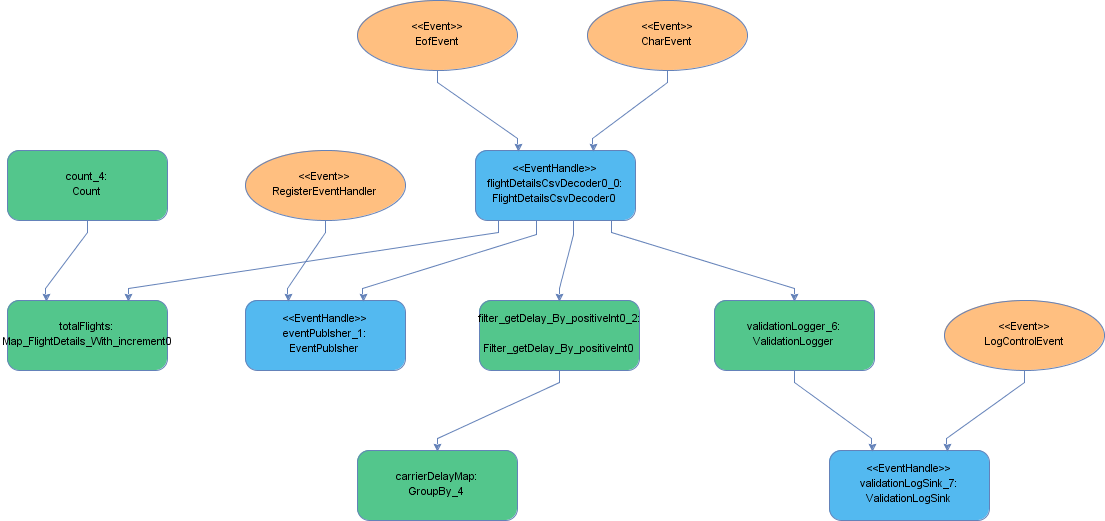
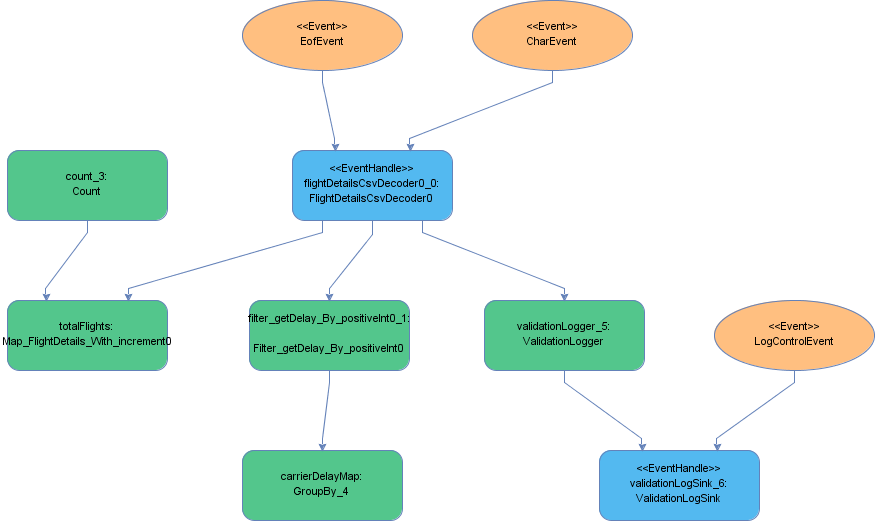
remove unnecessary event publisher. regenerated solution, updates to generator optimises solution

diff --git a/examples/futext-examples/src/main/java/com/fluxtion/ext/futext/example/flightdelay/AnalysisBuilder.java b/examples/futext-examples/src/main/java/com/fluxtion/ext/futext/example/flightdelay/AnalysisBuilder.java
@@ -109,6 +109,7 @@ public class AnalysisBuilder {
 //    @Disabled
     public void buildFlightProcessor(SEPConfig cfg) {
         Wrapper<FlightDetails> flightDetails = csvMarshaller(FlightDetails.class, 1)
+                .addEventPublisher(false)
                 .map(14, FlightDetails::setDelay)
                 .map(8, FlightDetails::setCarrier).tokenConfig(CharTokenConfig.WINDOWS).build();
         //filter for positive delays
